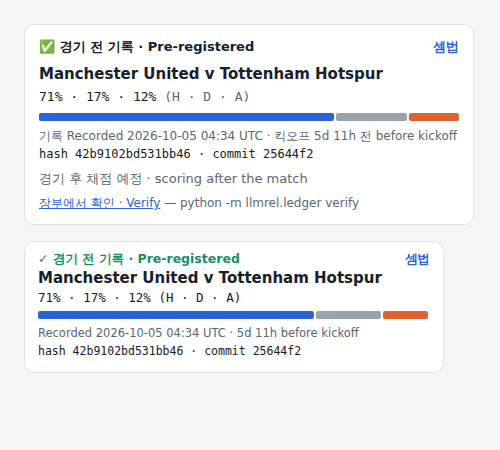
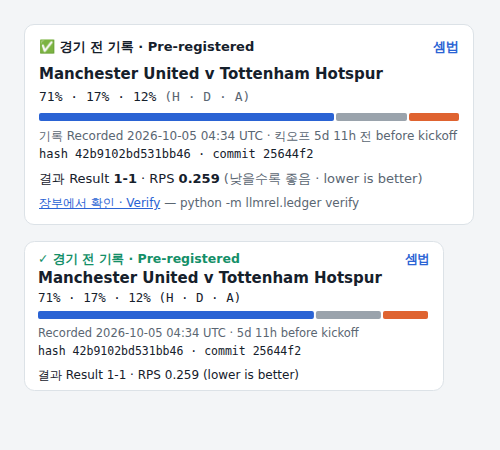
맨유–토트넘 채점(1–1, 우리 RPS 0.259 / Opta 0.171) 장부 기록, 배지에 결과 반영, 콘텐츠 #2, 7라운드 예측 사전기록
Claude-Session: https://claude.ai/code/session_01F2Dj6M9WfX1Bg9mjT3ipLz

Changed region(s): [[0.09, 0.3733, 0.84, 0.4356], [0.06, 0.8089, 0.6, 0.84]]

diff --git a/llm-reliability/content/badges/2026-10-10_manchester_tottenham.html b/llm-reliability/content/badges/2026-10-10_manchester_tottenham.html
@@ -8,6 +8,6 @@
   <div style="display:flex;gap:2px;margin:6px 0"><div style="flex:0.709;background:#2a63d4;height:8px;border-radius:2px" title="Home 71%"></div><div style="flex:0.171;background:#9aa3ac;height:8px;border-radius:2px" title="Draw 17%"></div><div style="flex:0.120;background:#df6330;height:8px;border-radius:2px" title="Away 12%"></div></div>
   <div style="color:#5a6672;font-size:12px">기록 Recorded 2026-10-05 04:34 UTC · 킥오프 5d 11h 전 before kickoff</div>
   <div style="font-family:ui-monospace,Menlo,monospace;font-size:12px">hash 42b9102bd531bb46 · commit 25644f2</div>
-  <div style="margin-top:6px;color:#5a6672">경기 후 채점 예정 · scoring after the match</div>
+  <div style="margin-top:6px">결과 Result <b>1-1</b> · RPS <b>0.259</b> <span style="color:#5a6672">(낮을수록 좋음 · lower is better)</span></div>
   <div style="margin-top:6px;font-size:12px"><a href="https://github.com/quanter02/chelsea-analytics/blob/claude/adoring-dijkstra-jshoun/llm-reliability/ledger/predictions.jsonl" style="color:#2a63d4">장부에서 확인 · Verify</a> <span style="color:#5a6672">— python -m llmrel.ledger verify</span></div>
 </div>

diff --git a/llm-reliability/output/epl_round/report.md b/llm-reliability/output/epl_round/report.md
@@ -1,9 +1,9 @@
-# EPL 라운드 기록 (2026-10-06)
+# EPL 라운드 기록 (2026-10-11)
 
-- xG: understat xG 50경기 받음, 결과 자료와 연결 50/50
+- xG: understat xG 56경기 받음, 결과 자료와 연결 50/56
 - 모드: **xG 모드** (이번 시즌 xG 붙은 경기 50개)
 - 결과 반영: 2026-09-20까지, 이번 시즌 50경기
-- 예측 장부: 이번에 0줄 추가, 전체 254줄, 체인 정상, 마지막 hash `1ab88cd974e7729f`
+- 예측 장부: 이번에 10줄 추가, 전체 515줄, 체인 정상, 마지막 hash `a662f31612da056c`
 
 ## Opta와 같은 경기 비교 (채점 끝난 것만, RPS 낮을수록 좋음)
 
@@ -11,16 +11,30 @@
 
 ## 기록된 예측
 
-| date       | home              | away                   | source        |    pH |    pD |    pA | status   |   rps |
-|:-----------|:------------------|:-----------------------|:--------------|------:|------:|------:|:---------|------:|
-| 2026-10-10 | Arsenal           | Leeds United           | 우리 모델 (xG 모드) | 0.579 | 0.251 | 0.17  | pending  |   nan |
-| 2026-10-10 | Aston Villa       | Brentford              | 우리 모델 (xG 모드) | 0.357 | 0.234 | 0.408 | pending  |   nan |
-| 2026-10-10 | Chelsea           | Bournemouth            | 우리 모델 (xG 모드) | 0.336 | 0.235 | 0.429 | pending  |   nan |
-| 2026-10-10 | Ipswich Town      | Fulham                 | 우리 모델 (xG 모드) | 0.331 | 0.261 | 0.408 | pending  |   nan |
-| 2026-10-10 | Manchester United | Tottenham Hotspur      | Opta (사용자 제공) | 0.559 | 0.226 | 0.215 | pending  |   nan |
-| 2026-10-10 | Manchester United | Tottenham Hotspur      | 우리 모델 (xG 모드) | 0.709 | 0.171 | 0.12  | pending  |   nan |
-| 2026-10-10 | Sunderland        | Brighton & Hove Albion | 우리 모델 (xG 모드) | 0.285 | 0.225 | 0.489 | pending  |   nan |
-| 2026-10-11 | Crystal Palace    | Nottingham Forest      | 우리 모델 (xG 모드) | 0.297 | 0.258 | 0.446 | pending  |   nan |
-| 2026-10-11 | Hull City         | Everton                | 우리 모델 (xG 모드) | 0.364 | 0.27  | 0.366 | pending  |   nan |
-| 2026-10-11 | Liverpool         | Manchester City        | 우리 모델 (xG 모드) | 0.301 | 0.235 | 0.464 | pending  |   nan |
-| 2026-10-12 | Coventry City     | Newcastle United       | 우리 모델 (xG 모드) | 0.319 | 0.245 | 0.436 | pending  |   nan |
+| date       | home                   | away                   | source                   |    pH |    pD |    pA | status   |   rps |
+|:-----------|:-----------------------|:-----------------------|:-------------------------|------:|------:|------:|:---------|------:|
+| 2026-10-10 | Arsenal                | Leeds United           | 우리 모델 (xG 모드)            | 0.579 | 0.251 | 0.17  | pending  |   nan |
+| 2026-10-10 | Aston Villa            | Brentford              | 우리 모델 (xG 모드)            | 0.357 | 0.234 | 0.408 | pending  |   nan |
+| 2026-10-10 | Chelsea                | Bournemouth            | 우리 모델 (xG 모드)            | 0.336 | 0.235 | 0.429 | pending  |   nan |
+| 2026-10-10 | Ipswich Town           | Fulham                 | 우리 모델 (xG 모드)            | 0.331 | 0.261 | 0.408 | pending  |   nan |
+| 2026-10-10 | Manchester United      | Tottenham Hotspur      | Dimers (웹 검색 10/6)       | 0.544 | 0.218 | 0.238 | pending  |   nan |
+| 2026-10-10 | Manchester United      | Tottenham Hotspur      | Opta (사용자 제공)            | 0.559 | 0.226 | 0.215 | pending  |   nan |
+| 2026-10-10 | Manchester United      | Tottenham Hotspur      | Opta (프리뷰 기사 10/8)       | 0.541 | 0.236 | 0.223 | pending  |   nan |
+| 2026-10-10 | Manchester United      | Tottenham Hotspur      | StatsInsider (웹 검색 10/6) | 0.533 | 0.22  | 0.247 | pending  |   nan |
+| 2026-10-10 | Manchester United      | Tottenham Hotspur      | StatsUltra (웹 검색 10/6)   | 0.56  | 0.23  | 0.21  | pending  |   nan |
+| 2026-10-10 | Manchester United      | Tottenham Hotspur      | 우리 모델 (xG 모드)            | 0.709 | 0.171 | 0.12  | pending  |   nan |
+| 2026-10-10 | Sunderland             | Brighton & Hove Albion | 우리 모델 (xG 모드)            | 0.285 | 0.225 | 0.489 | pending  |   nan |
+| 2026-10-11 | Crystal Palace         | Nottingham Forest      | 우리 모델 (xG 모드)            | 0.297 | 0.258 | 0.446 | pending  |   nan |
+| 2026-10-11 | Hull City              | Everton                | 우리 모델 (xG 모드)            | 0.364 | 0.27  | 0.366 | pending  |   nan |
+| 2026-10-11 | Liverpool              | Manchester City        | 우리 모델 (xG 모드)            | 0.301 | 0.235 | 0.464 | pending  |   nan |
+| 2026-10-12 | Coventry City          | Newcastle United       | 우리 모델 (xG 모드)            | 0.319 | 0.245 | 0.436 | pending  |   nan |
+| 2026-10-17 | Brentford              | Liverpool              | 우리 모델 (xG 모드)            | 0.482 | 0.236 | 0.282 | pending  |   nan |
+| 2026-10-17 | Everton                | Chelsea                | 우리 모델 (xG 모드)            | 0.516 | 0.225 | 0.259 | pending  |   nan |
+| 2026-10-17 | Fulham                 | Hull City              | 우리 모델 (xG 모드)            | 0.464 | 0.267 | 0.268 | pending  |   nan |
+| 2026-10-17 | Manchester City        | Ipswich Town           | 우리 모델 (xG 모드)            | 0.841 | 0.104 | 0.055 | pending  |   nan |
+| 2026-10-17 | Newcastle United       | Aston Villa            | 우리 모델 (xG 모드)            | 0.491 | 0.218 | 0.291 | pending  |   nan |
+| 2026-10-18 | Bournemouth            | Sunderland             | 우리 모델 (xG 모드)            | 0.578 | 0.222 | 0.2   | pending  |   nan |
+| 2026-10-18 | Brighton & Hove Albion | Crystal Palace         | 우리 모델 (xG 모드)            | 0.731 | 0.155 | 0.114 | pending  |   nan |
+| 2026-10-18 | Leeds United           | Manchester United      | 우리 모델 (xG 모드)            | 0.377 | 0.252 | 0.371 | pending  |   nan |
+| 2026-10-18 | Nottingham Forest      | Arsenal                | 우리 모델 (xG 모드)            | 0.289 | 0.29  | 0.421 | pending  |   nan |
+| 2026-10-19 | Tottenham Hotspur      | Coventry City          | 우리 모델 (xG 모드)            | 0.474 | 0.263 | 0.263 | pending  |   nan |

diff --git a/llm-reliability/content/2026-10-11_mun_tot_score/post.md b/llm-reliability/content/2026-10-11_mun_tot_score/post.md
@@ -1,0 +1,43 @@
+# 맨유 1–1 토트넘: 우리는 71%라고 적었고, 졌습니다. 채점을 공개합니다
+
+**결과**: 맨체스터 유나이티드 1–1 토트넘 (2026/27 프리미어리그, 한국시간 10월 11일 01:30)
+
+경기 5일 11시간 전에 장부에 적어 둔 예측을 그대로 채점했습니다.
+
+| | 맨유 승 | 무 | 토트넘 승 | 채점 (RPS, 낮을수록 좋음) |
+|---|---|---|---|---|
+| **우리 모델** (경기 전 기록, hash `42b9102bd531bb46`) | 71% | 17% | 12% | **0.259** |
+| Opta (10/8 프리뷰 기사) | 54% | 24% | 22% | **0.171** |
+| 단순 기준선 (홈 45 / 무 25 / 원정 30) | 45% | 25% | 30% | 0.146 |
+
+**이번 경기는 Opta가 이겼고, 단순 기준선에도 졌습니다.** 무승부에 17%만 줬기 때문입니다.
+
+## 왜 틀렸나
+
+- 우리 모델은 맨유의 좋은 기대득점(xG)을 믿었습니다. 그런데 그 절반이 입스위치전 한 경기에서 나왔다는 걸 경기 전 글에서 이미 적었습니다.
+- 이번 경기 xG는 맨유 0.87, 토트넘 2.03이었습니다. 결과는 1–1이었지만, 내용은 오히려 토트넘이 좋았습니다.
+- '한 경기 영향 상한' 규칙(맨유 63~67%)은 과거 시즌에서 나빴기 때문에 채택하지 않았습니다. 한 경기로 그 결정을 뒤집지는 않습니다. 대신 이 경기를 그 규칙의 시험 기록에 더합니다.
+
+## 같은 날 다른 5경기까지 합치면
+
+| 경기 | 우리 예측 (홈/무/원정) | 우리 RPS | 기준선 RPS |
+|---|---|---|---|
+| 아스널 2–1 리즈 | 58/25/17 | **0.103** | 0.196 |
+| 애스턴 빌라 2–2 브렌트퍼드 | 36/23/41 | 0.147 | 0.146 |
+| 첼시 5–1 본머스 | 34/24/43 | 0.312 | **0.196** |
+| 입스위치 2–1 풀럼 | 33/26/41 | 0.307 | **0.196** |
+| 선덜랜드 0–2 브라이턴 | 28/22/49 | **0.171** | 0.346 |
+| 맨유 1–1 토트넘 | 71/17/12 | 0.259 | **0.146** |
+| **평균** | | **0.216** | **0.204** |
+
+6경기 중 2경기는 기준선보다 좋았고, 평균은 기준선보다 조금 나빴습니다.
+
+## 그래서 어떻게 하나
+
+- 6경기는 판정하기에 너무 적습니다. 처음 약속대로 **라운드마다 쌓아서 시즌 단위로** 판정합니다.
+- 다만 이번 결과는 장부에 그대로 남았습니다(결과 기록 hash `595a6cd5aa76bb52`). 지울 수 없고, 시즌 성적표에 그대로 들어갑니다.
+- 다음 라운드(10/17~19) 예측도 이미 장부에 적어 두었습니다. 맨유는 리즈 원정에서 38/25/37입니다. 다만 이 예측은 9월 20일까지의 결과로 만든 것입니다(경기 결과 자료가 아직 갱신 전). 자료가 갱신되면 다시 계산해 **새 줄로** 기록하고, 처음 줄과 나란히 둡니다.
+
+맞힌 것만 보여주는 예측은 믿기 어렵습니다. 그래서 틀린 것도 같은 크기로 보여드립니다.
+
+데이터: 경기 결과·xG는 understat(10/11 수집, openfootball 갱신 후 대조), Opta 확률은 theanalyst.com 프리뷰 기사(10/8)에서 비교용으로 인용. 경기 분석이며 베팅 권유가 아닙니다.

diff --git a/llm-reliability/content/2026-10-11_mun_tot_score/shorts.md b/llm-reliability/content/2026-10-11_mun_tot_score/shorts.md
@@ -1,0 +1,11 @@
+# 쇼츠 대본 (약 40초)
+
+| 시간 | 화면 | 내레이션 |
+|---|---|---|
+| 0~3초 | 큰 글자 "71% → 1:1" | "맨유가 이길 확률 71%. 결과는 1대1. 저희가 틀렸습니다." |
+| 3~10초 | 장부 화면, 기록 시각 강조 | "이 숫자는 경기 5일 전에 바꿀 수 없게 적어 둔 겁니다. 그래서 그대로 채점합니다." |
+| 10~20초 | 점수 막대: 우리 0.259 / Opta 0.171 / 기준선 0.146 | "점수는 낮을수록 좋습니다. 이번엔 Opta가 이겼고, 단순 기준선에도 졌어요." |
+| 20~30초 | xG 막대: 맨유 0.87 / 토트넘 2.03 | "이유는 맨유를 너무 믿은 것. 이번 경기 내용은 오히려 토트넘이 좋았습니다." |
+| 30~40초 | "시즌 성적표에 그대로" | "한 경기로 판정하지 않습니다. 시즌 단위로 쌓아서, 틀린 것도 같은 크기로 공개합니다." |
+
+자막 고정 문구: "경기 전 기록 · 채점 공개 · 베팅 권유 아님"

diff --git a/llm-reliability/content/2026-10-11_mun_tot_score/thread.md b/llm-reliability/content/2026-10-11_mun_tot_score/thread.md
@@ -1,0 +1,11 @@
+# X·스레드용 (3개)
+
+1/ 맨유 1–1 토트넘. 우리는 경기 5일 전에 맨유 71%라고 장부에 적었습니다.
+채점(RPS, 낮을수록 좋음): 우리 0.259 · Opta 0.171 · 단순 기준선 0.146
+이번엔 졌습니다. 무승부에 17%만 줬기 때문.
+
+2/ 이유: 맨유의 좋은 xG 절반이 한 경기(입스위치전)에서 나왔던 걸 그대로 믿음. 이번 경기 xG는 맨유 0.87 vs 토트넘 2.03.
+같은 날 6경기 평균: 우리 0.216 vs 기준선 0.204. 2경기는 이겼고 평균은 조금 짐.
+
+3/ 6경기로 판정하지 않습니다. 시즌 단위로 쌓아서 채점. 이번 결과도 장부에 지울 수 없게 남겼습니다(hash 595a6cd5aa76bb52).
+다음 라운드 예측도 이미 기록해 둠. 틀린 것도 같은 크기로 공개합니다.

diff --git a/llm-reliability/content/2026-10-10_mun_tot/checklist.md b/llm-reliability/content/2026-10-10_mun_tot/checklist.md
@@ -4,4 +4,4 @@
 - [x] Opta 확률이 그 사이 바뀌었으면 최신 값으로 다시 받아 장부에 추가 (10/9: 프리뷰 기사 54.1/23.6/22.3, 장부 추가)
 - [ ] 순위·승점 문구를 발행 시점 기준으로 확인
 - [ ] 출처 표기와 "베팅 권유 아님" 문구 유지
-- [ ] 경기 후: `epl_round.py` 재실행 → 두 예측 RPS 채점 → 후속 글
+- [x] 경기 후: 채점 완료 (1–1, 우리 RPS 0.259 / Opta 0.171) → 콘텐츠 #2 `content/2026-10-11_mun_tot_score/`
